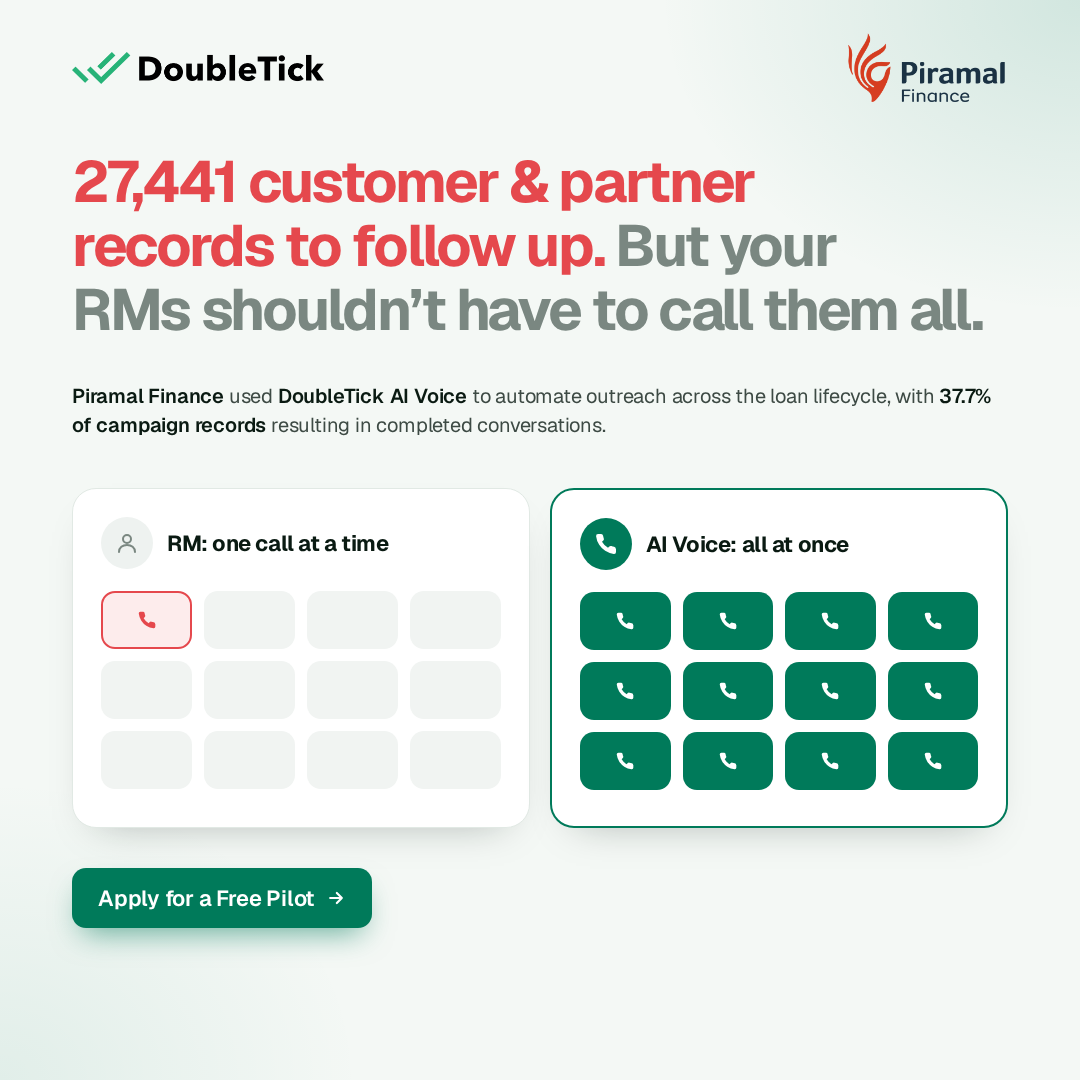
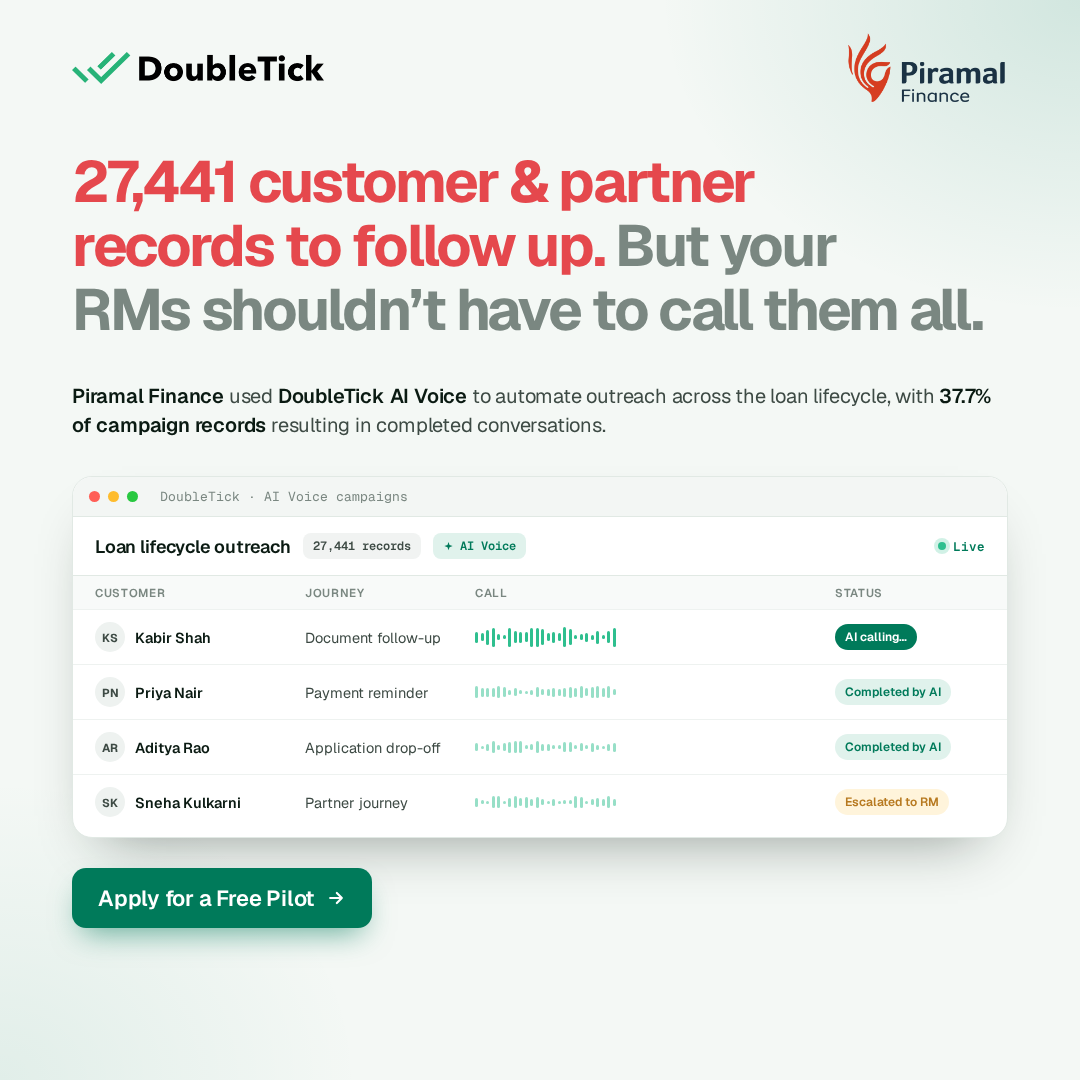
feat: UI-driven campaign window visual in Piramal records ad
Claude-Session: https://claude.ai/code/session_013Hi5o4KgvuLbKTeGkStAKX

diff --git a/ads/doubletick-case-piramal-dark/index.html b/ads/doubletick-case-piramal-dark/index.html
@@ -6,7 +6,7 @@
 <style>
   @font-face { font-family: "Geist"; src: url("fonts/Geist-Variable.woff2") format("woff2"); font-weight: 100 900; }
   @font-face { font-family: "Geist Mono"; src: url("fonts/GeistMono-Variable.woff2") format("woff2"); font-weight: 100 900; }
-  :root { --bg: #F4F8F5; --green: #007A5A; --mint: #2FBF8F; --ink: #0A1A12; --mute: #7A8781; --line: #E1E9E4; }
+  :root { --green-soft: #E0F2EC; --bg: #F4F8F5; --green: #007A5A; --mint: #2FBF8F; --ink: #0A1A12; --mute: #7A8781; --line: #E1E9E4; }
   * { box-sizing: border-box; margin: 0; padding: 0; }
   html, body { width: 1080px; height: 1080px; background: var(--bg); }
   body { font-family: "Geist", system-ui, sans-serif; color: var(--ink); -webkit-font-smoothing: antialiased; overflow: hidden; }
@@ -31,19 +31,30 @@
   .sub { left: 72px; right: 72px; top: 382px; font-size: 20px; line-height: 1.45; color: #3D4A44; letter-spacing: -0.01em; }
   .sub b { color: var(--ink); font-weight: 600; }
 
-  /* visual: same queue — one RM vs AI Voice */
-  .viz { left: 72px; top: 488px; width: 936px; height: 340px; display: grid; grid-template-columns: 1fr 1fr; gap: 20px; }
-  .side { border-radius: 24px; padding: 28px; display: flex; flex-direction: column; gap: 22px; background: #fff; border: 1px solid var(--line); box-shadow: 0 18px 40px -26px rgba(10,26,18,.35); }
-  .side.ai { border: 2px solid var(--green); }
-  .hd { display: flex; align-items: center; gap: 14px; font-size: 22px; font-weight: 700; letter-spacing: -0.02em; }
-  .ic { width: 52px; height: 52px; border-radius: 50%; display: grid; place-items: center; flex: none; }
-  .rm .ic { background: #EEF2F0; }
-  .ai .ic { background: var(--green); }
-  .q { display: grid; grid-template-columns: repeat(4, 1fr); gap: 12px; }
-  .q i { height: 58px; border-radius: 14px; display: grid; place-items: center; }
-  .rm .q i { background: #F1F4F2; }
-  .rm .q i.on { background: #FDECEC; border: 2px solid #E5484D; }
-  .ai .q i { background: var(--green); }
+  /* visual: DoubleTick AI Voice campaign window */
+  .viz { left: 72px; top: 476px; width: 936px; height: 362px; background: #fff; border: 1px solid var(--line); border-radius: 20px; overflow: hidden;
+    box-shadow: 0 28px 56px -30px rgba(10,26,18,.45); }
+  .bar { height: 40px; display: flex; align-items: center; gap: 8px; padding: 0 16px; background: #F3F6F4; border-bottom: 1px solid var(--line); }
+  .bar i { width: 11px; height: 11px; border-radius: 50%; display: block; }
+  .bar .ttl { margin-left: 14px; font-size: 13px; color: var(--mute); }
+  .top2 { display: flex; align-items: center; gap: 12px; padding: 16px 22px; border-bottom: 1px solid var(--line); }
+  .top2 .nm { font-size: 18px; font-weight: 600; letter-spacing: -0.01em; }
+  .chip { font-size: 12px; font-weight: 600; padding: 5px 10px; border-radius: 8px; display: inline-flex; align-items: center; gap: 6px; }
+  .chip.g { background: var(--green-soft, #E0F2EC); color: var(--green); }
+  .chip.k { background: #F1F3F2; color: #3D4A44; }
+  .top2 .live { margin-left: auto; display: flex; align-items: center; gap: 7px; font-size: 12.5px; font-weight: 600; color: var(--green); }
+  .top2 .live i { width: 8px; height: 8px; border-radius: 50%; background: var(--mint); box-shadow: 0 0 0 4px rgba(47,191,143,.22); }
+  .row { display: grid; grid-template-columns: 210px 170px 1fr 150px; align-items: center; padding: 12px 22px; border-top: 1px solid #EEF2F0; font-size: 14.5px; }
+  .row.h { border-top: 0; padding: 9px 22px; background: #F8FAF9; font-size: 11.5px; font-weight: 600; letter-spacing: .06em; text-transform: uppercase; color: var(--mute); }
+  .who { display: flex; align-items: center; gap: 10px; font-weight: 600; }
+  .who .av { width: 30px; height: 30px; border-radius: 50%; background: #EEF2F0; display: grid; place-items: center; font-size: 11.5px; font-weight: 700; color: #3D4A44; }
+  .jr { color: #3D4A44; }
+  .wv { display: flex; align-items: center; gap: 2.5px; height: 22px; }
+  .wv b { width: 3px; border-radius: 2px; background: var(--mint); display: block; }
+  .st { justify-self: start; font-size: 12px; font-weight: 600; padding: 5px 10px; border-radius: 999px; white-space: nowrap; }
+  .st.ai { background: #E0F2EC; color: var(--green); }
+  .st.live { background: var(--green); color: #fff; }
+  .st.rm { background: #FFF4DB; color: #B7791F; }
   .cta { left: 72px; top: 868px; }
   .btn { background: var(--green); color: #fff; font-size: 22px; font-weight: 600; letter-spacing: -0.01em;
     padding: 16px 26px; border-radius: 14px; display: flex; align-items: center; gap: 12px; box-shadow: 0 14px 30px -10px rgba(0,122,90,.6); }
@@ -58,8 +69,10 @@
   <p class="sub"><b>Piramal Finance</b> used <b>DoubleTick AI Voice</b> to automate outreach across the loan lifecycle, with <b>37.7% of campaign records</b> resulting in completed conversations.</p>
 
   <div class="viz">
-    <div class="side rm"><div class="hd"><span class="ic"><svg width="24" height="24" viewBox="0 0 24 24" fill="none" stroke="#7A8781" stroke-width="2" stroke-linecap="round" stroke-linejoin="round"><circle cx="12" cy="8" r="4"/><path d="M4 21c0-4.4 3.6-7 8-7s8 2.6 8 7"/></svg></span>RM: one call at a time</div><div class="q"><i class="on"><svg width="20" height="20" viewBox="0 0 24 24" fill="#E5484D"><path d="M22 16.9v3a2 2 0 0 1-2.2 2 19.8 19.8 0 0 1-8.6-3.1 19.5 19.5 0 0 1-6-6A19.8 19.8 0 0 1 2.1 4.2 2 2 0 0 1 4.1 2h3a2 2 0 0 1 2 1.7c.1.9.4 1.8.7 2.7a2 2 0 0 1-.5 2.1L8 9.8a16 16 0 0 0 6 6l1.3-1.3a2 2 0 0 1 2.1-.4c.9.3 1.8.6 2.7.7a2 2 0 0 1 1.7 2z"/></svg></i><i></i><i></i><i></i><i></i><i></i><i></i><i></i><i></i><i></i><i></i><i></i></div></div>
-    <div class="side ai"><div class="hd"><span class="ic"><svg width="24" height="24" viewBox="0 0 24 24" fill="#fff"><path d="M22 16.9v3a2 2 0 0 1-2.2 2 19.8 19.8 0 0 1-8.6-3.1 19.5 19.5 0 0 1-6-6A19.8 19.8 0 0 1 2.1 4.2 2 2 0 0 1 4.1 2h3a2 2 0 0 1 2 1.7c.1.9.4 1.8.7 2.7a2 2 0 0 1-.5 2.1L8 9.8a16 16 0 0 0 6 6l1.3-1.3a2 2 0 0 1 2.1-.4c.9.3 1.8.6 2.7.7a2 2 0 0 1 1.7 2z"/></svg></span>AI Voice: all at once</div><div class="q"><i><svg width="20" height="20" viewBox="0 0 24 24" fill="#fff"><path d="M22 16.9v3a2 2 0 0 1-2.2 2 19.8 19.8 0 0 1-8.6-3.1 19.5 19.5 0 0 1-6-6A19.8 19.8 0 0 1 2.1 4.2 2 2 0 0 1 4.1 2h3a2 2 0 0 1 2 1.7c.1.9.4 1.8.7 2.7a2 2 0 0 1-.5 2.1L8 9.8a16 16 0 0 0 6 6l1.3-1.3a2 2 0 0 1 2.1-.4c.9.3 1.8.6 2.7.7a2 2 0 0 1 1.7 2z"/></svg></i><i><svg width="20" height="20" viewBox="0 0 24 24" fill="#fff"><path d="M22 16.9v3a2 2 0 0 1-2.2 2 19.8 19.8 0 0 1-8.6-3.1 19.5 19.5 0 0 1-6-6A19.8 19.8 0 0 1 2.1 4.2 2 2 0 0 1 4.1 2h3a2 2 0 0 1 2 1.7c.1.9.4 1.8.7 2.7a2 2 0 0 1-.5 2.1L8 9.8a16 16 0 0 0 6 6l1.3-1.3a2 2 0 0 1 2.1-.4c.9.3 1.8.6 2.7.7a2 2 0 0 1 1.7 2z"/></svg></i><i><svg width="20" height="20" viewBox="0 0 24 24" fill="#fff"><path d="M22 16.9v3a2 2 0 0 1-2.2 2 19.8 19.8 0 0 1-8.6-3.1 19.5 19.5 0 0 1-6-6A19.8 19.8 0 0 1 2.1 4.2 2 2 0 0 1 4.1 2h3a2 2 0 0 1 2 1.7c.1.9.4 1.8.7 2.7a2 2 0 0 1-.5 2.1L8 9.8a16 16 0 0 0 6 6l1.3-1.3a2 2 0 0 1 2.1-.4c.9.3 1.8.6 2.7.7a2 2 0 0 1 1.7 2z"/></svg></i><i><svg width="20" height="20" viewBox="0 0 24 24" fill="#fff"><path d="M22 16.9v3a2 2 0 0 1-2.2 2 19.8 19.8 0 0 1-8.6-3.1 19.5 19.5 0 0 1-6-6A19.8 19.8 0 0 1 2.1 4.2 2 2 0 0 1 4.1 2h3a2 2 0 0 1 2 1.7c.1.9.4 1.8.7 2.7a2 2 0 0 1-.5 2.1L8 9.8a16 16 0 0 0 6 6l1.3-1.3a2 2 0 0 1 2.1-.4c.9.3 1.8.6 2.7.7a2 2 0 0 1 1.7 2z"/></svg></i><i><svg width="20" height="20" viewBox="0 0 24 24" fill="#fff"><path d="M22 16.9v3a2 2 0 0 1-2.2 2 19.8 19.8 0 0 1-8.6-3.1 19.5 19.5 0 0 1-6-6A19.8 19.8 0 0 1 2.1 4.2 2 2 0 0 1 4.1 2h3a2 2 0 0 1 2 1.7c.1.9.4 1.8.7 2.7a2 2 0 0 1-.5 2.1L8 9.8a16 16 0 0 0 6 6l1.3-1.3a2 2 0 0 1 2.1-.4c.9.3 1.8.6 2.7.7a2 2 0 0 1 1.7 2z"/></svg></i><i><svg width="20" height="20" viewBox="0 0 24 24" fill="#fff"><path d="M22 16.9v3a2 2 0 0 1-2.2 2 19.8 19.8 0 0 1-8.6-3.1 19.5 19.5 0 0 1-6-6A19.8 19.8 0 0 1 2.1 4.2 2 2 0 0 1 4.1 2h3a2 2 0 0 1 2 1.7c.1.9.4 1.8.7 2.7a2 2 0 0 1-.5 2.1L8 9.8a16 16 0 0 0 6 6l1.3-1.3a2 2 0 0 1 2.1-.4c.9.3 1.8.6 2.7.7a2 2 0 0 1 1.7 2z"/></svg></i><i><svg width="20" height="20" viewBox="0 0 24 24" fill="#fff"><path d="M22 16.9v3a2 2 0 0 1-2.2 2 19.8 19.8 0 0 1-8.6-3.1 19.5 19.5 0 0 1-6-6A19.8 19.8 0 0 1 2.1 4.2 2 2 0 0 1 4.1 2h3a2 2 0 0 1 2 1.7c.1.9.4 1.8.7 2.7a2 2 0 0 1-.5 2.1L8 9.8a16 16 0 0 0 6 6l1.3-1.3a2 2 0 0 1 2.1-.4c.9.3 1.8.6 2.7.7a2 2 0 0 1 1.7 2z"/></svg></i><i><svg width="20" height="20" viewBox="0 0 24 24" fill="#fff"><path d="M22 16.9v3a2 2 0 0 1-2.2 2 19.8 19.8 0 0 1-8.6-3.1 19.5 19.5 0 0 1-6-6A19.8 19.8 0 0 1 2.1 4.2 2 2 0 0 1 4.1 2h3a2 2 0 0 1 2 1.7c.1.9.4 1.8.7 2.7a2 2 0 0 1-.5 2.1L8 9.8a16 16 0 0 0 6 6l1.3-1.3a2 2 0 0 1 2.1-.4c.9.3 1.8.6 2.7.7a2 2 0 0 1 1.7 2z"/></svg></i><i><svg width="20" height="20" viewBox="0 0 24 24" fill="#fff"><path d="M22 16.9v3a2 2 0 0 1-2.2 2 19.8 19.8 0 0 1-8.6-3.1 19.5 19.5 0 0 1-6-6A19.8 19.8 0 0 1 2.1 4.2 2 2 0 0 1 4.1 2h3a2 2 0 0 1 2 1.7c.1.9.4 1.8.7 2.7a2 2 0 0 1-.5 2.1L8 9.8a16 16 0 0 0 6 6l1.3-1.3a2 2 0 0 1 2.1-.4c.9.3 1.8.6 2.7.7a2 2 0 0 1 1.7 2z"/></svg></i><i><svg width="20" height="20" viewBox="0 0 24 24" fill="#fff"><path d="M22 16.9v3a2 2 0 0 1-2.2 2 19.8 19.8 0 0 1-8.6-3.1 19.5 19.5 0 0 1-6-6A19.8 19.8 0 0 1 2.1 4.2 2 2 0 0 1 4.1 2h3a2 2 0 0 1 2 1.7c.1.9.4 1.8.7 2.7a2 2 0 0 1-.5 2.1L8 9.8a16 16 0 0 0 6 6l1.3-1.3a2 2 0 0 1 2.1-.4c.9.3 1.8.6 2.7.7a2 2 0 0 1 1.7 2z"/></svg></i><i><svg width="20" height="20" viewBox="0 0 24 24" fill="#fff"><path d="M22 16.9v3a2 2 0 0 1-2.2 2 19.8 19.8 0 0 1-8.6-3.1 19.5 19.5 0 0 1-6-6A19.8 19.8 0 0 1 2.1 4.2 2 2 0 0 1 4.1 2h3a2 2 0 0 1 2 1.7c.1.9.4 1.8.7 2.7a2 2 0 0 1-.5 2.1L8 9.8a16 16 0 0 0 6 6l1.3-1.3a2 2 0 0 1 2.1-.4c.9.3 1.8.6 2.7.7a2 2 0 0 1 1.7 2z"/></svg></i><i><svg width="20" height="20" viewBox="0 0 24 24" fill="#fff"><path d="M22 16.9v3a2 2 0 0 1-2.2 2 19.8 19.8 0 0 1-8.6-3.1 19.5 19.5 0 0 1-6-6A19.8 19.8 0 0 1 2.1 4.2 2 2 0 0 1 4.1 2h3a2 2 0 0 1 2 1.7c.1.9.4 1.8.7 2.7a2 2 0 0 1-.5 2.1L8 9.8a16 16 0 0 0 6 6l1.3-1.3a2 2 0 0 1 2.1-.4c.9.3 1.8.6 2.7.7a2 2 0 0 1 1.7 2z"/></svg></i></div></div>
+    <div class="bar"><i style="background:#FF5F57"></i><i style="background:#FEBC2E"></i><i style="background:#28C840"></i><span class="ttl mono">DoubleTick · AI Voice campaigns</span></div>
+    <div class="top2"><span class="nm">Loan lifecycle outreach</span><span class="chip k mono">27,441 records</span><span class="chip g mono"><svg width="11" height="11" viewBox="0 0 24 24" fill="#007A5A"><path d="M12 2l2.2 6.6L21 11l-6.8 2.4L12 20l-2.2-6.6L3 11l6.8-2.4z"/></svg>AI Voice</span><span class="live mono"><i></i>Live</span></div>
+    <div class="row h"><span>Customer</span><span>Journey</span><span>Call</span><span>Status</span></div>
+    <div class="row"><span class="who"><span class="av">KS</span>Kabir Shah</span><span class="jr">Document follow-up</span><span class="wv"><b style="height:11px;"></b><b style="height:8px;"></b><b style="height:15px;"></b><b style="height:19px;"></b><b style="height:6px;"></b><b style="height:4px;"></b><b style="height:19px;"></b><b style="height:12px;"></b><b style="height:11px;"></b><b style="height:10px;"></b><b style="height:19px;"></b><b style="height:19px;"></b><b style="height:16px;"></b><b style="height:8px;"></b><b style="height:11px;"></b><b style="height:8px;"></b><b style="height:20px;"></b><b style="height:16px;"></b><b style="height:4px;"></b><b style="height:6px;"></b><b style="height:9px;"></b><b style="height:5px;"></b><b style="height:13px;"></b><b style="height:4px;"></b><b style="height:12px;"></b><b style="height:19px;"></b></span><span class="st live">AI calling…</span></div><div class="row"><span class="who"><span class="av">PN</span>Priya Nair</span><span class="jr">Payment reminder</span><span class="wv"><b style="height:12px;opacity:.5"></b><b style="height:9px;opacity:.5"></b><b style="height:9px;opacity:.5"></b><b style="height:9px;opacity:.5"></b><b style="height:12px;opacity:.5"></b><b style="height:10px;opacity:.5"></b><b style="height:5px;opacity:.5"></b><b style="height:8px;opacity:.5"></b><b style="height:4px;opacity:.5"></b><b style="height:3px;opacity:.5"></b><b style="height:5px;opacity:.5"></b><b style="height:10px;opacity:.5"></b><b style="height:6px;opacity:.5"></b><b style="height:7px;opacity:.5"></b><b style="height:9px;opacity:.5"></b><b style="height:7px;opacity:.5"></b><b style="height:9px;opacity:.5"></b><b style="height:11px;opacity:.5"></b><b style="height:9px;opacity:.5"></b><b style="height:12px;opacity:.5"></b><b style="height:8px;opacity:.5"></b><b style="height:11px;opacity:.5"></b><b style="height:12px;opacity:.5"></b><b style="height:9px;opacity:.5"></b><b style="height:12px;opacity:.5"></b><b style="height:6px;opacity:.5"></b></span><span class="st ai">Completed by AI</span></div><div class="row"><span class="who"><span class="av">AR</span>Aditya Rao</span><span class="jr">Application drop-off</span><span class="wv"><b style="height:8px;opacity:.5"></b><b style="height:3px;opacity:.5"></b><b style="height:7px;opacity:.5"></b><b style="height:12px;opacity:.5"></b><b style="height:5px;opacity:.5"></b><b style="height:8px;opacity:.5"></b><b style="height:11px;opacity:.5"></b><b style="height:12px;opacity:.5"></b><b style="height:12px;opacity:.5"></b><b style="height:4px;opacity:.5"></b><b style="height:6px;opacity:.5"></b><b style="height:12px;opacity:.5"></b><b style="height:7px;opacity:.5"></b><b style="height:7px;opacity:.5"></b><b style="height:4px;opacity:.5"></b><b style="height:4px;opacity:.5"></b><b style="height:10px;opacity:.5"></b><b style="height:10px;opacity:.5"></b><b style="height:4px;opacity:.5"></b><b style="height:8px;opacity:.5"></b><b style="height:4px;opacity:.5"></b><b style="height:9px;opacity:.5"></b><b style="height:5px;opacity:.5"></b><b style="height:3px;opacity:.5"></b><b style="height:7px;opacity:.5"></b><b style="height:9px;opacity:.5"></b></span><span class="st ai">Completed by AI</span></div><div class="row"><span class="who"><span class="av">SK</span>Sneha Kulkarni</span><span class="jr">Partner journey</span><span class="wv"><b style="height:9px;opacity:.5"></b><b style="height:4px;opacity:.5"></b><b style="height:3px;opacity:.5"></b><b style="height:12px;opacity:.5"></b><b style="height:12px;opacity:.5"></b><b style="height:3px;opacity:.5"></b><b style="height:9px;opacity:.5"></b><b style="height:12px;opacity:.5"></b><b style="height:8px;opacity:.5"></b><b style="height:11px;opacity:.5"></b><b style="height:7px;opacity:.5"></b><b style="height:11px;opacity:.5"></b><b style="height:6px;opacity:.5"></b><b style="height:3px;opacity:.5"></b><b style="height:7px;opacity:.5"></b><b style="height:3px;opacity:.5"></b><b style="height:4px;opacity:.5"></b><b style="height:4px;opacity:.5"></b><b style="height:12px;opacity:.5"></b><b style="height:11px;opacity:.5"></b><b style="height:3px;opacity:.5"></b><b style="height:6px;opacity:.5"></b><b style="height:9px;opacity:.5"></b><b style="height:7px;opacity:.5"></b><b style="height:12px;opacity:.5"></b><b style="height:7px;opacity:.5"></b></span><span class="st rm">Escalated to RM</span></div>
   </div>
 
   <div class="cta"><div class="btn">Apply for a Free Pilot
